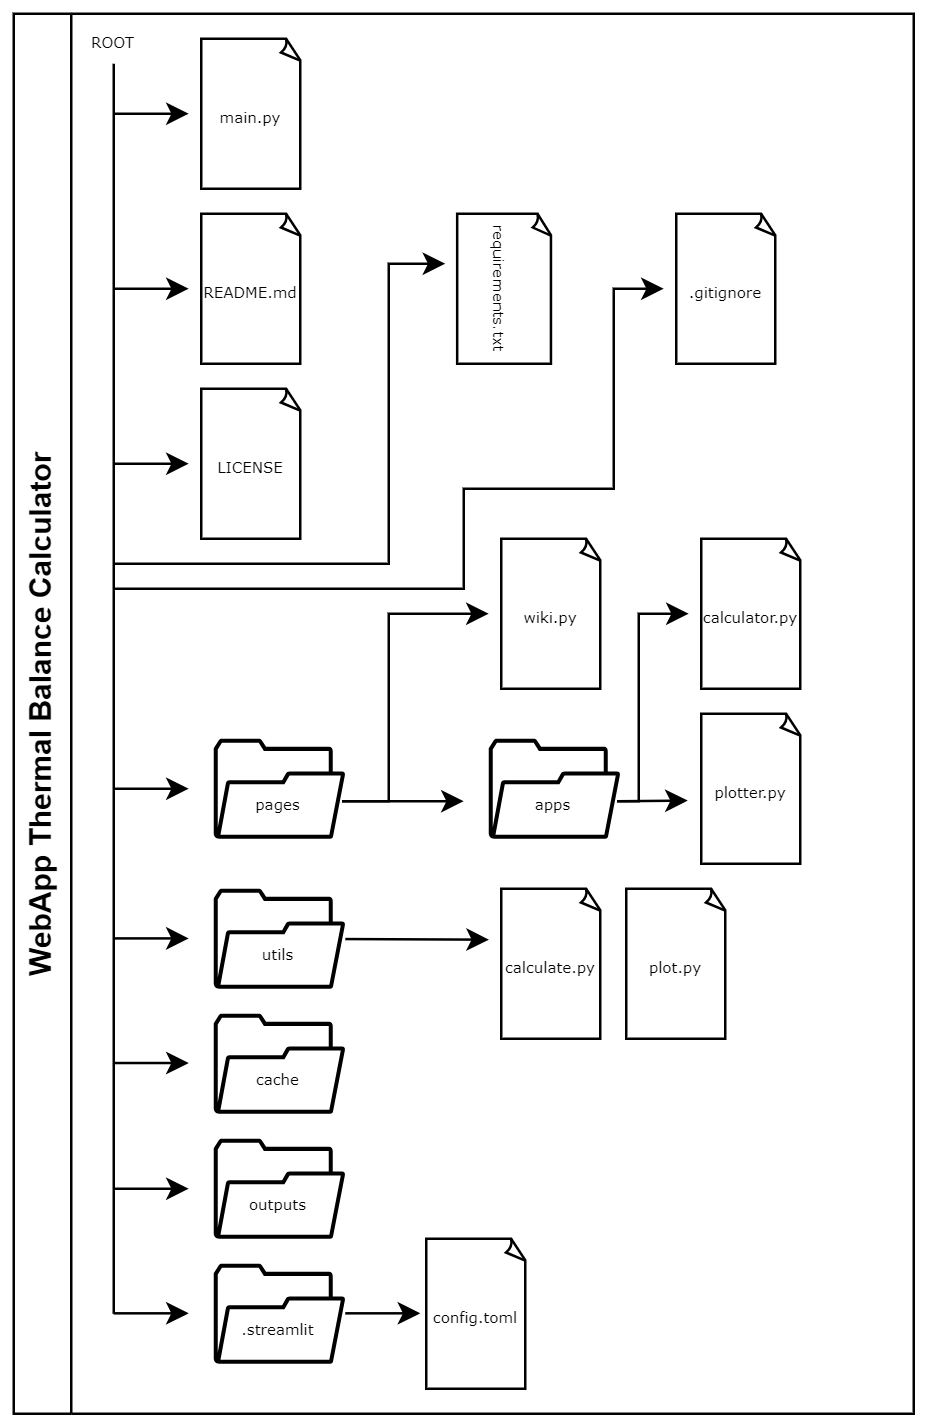
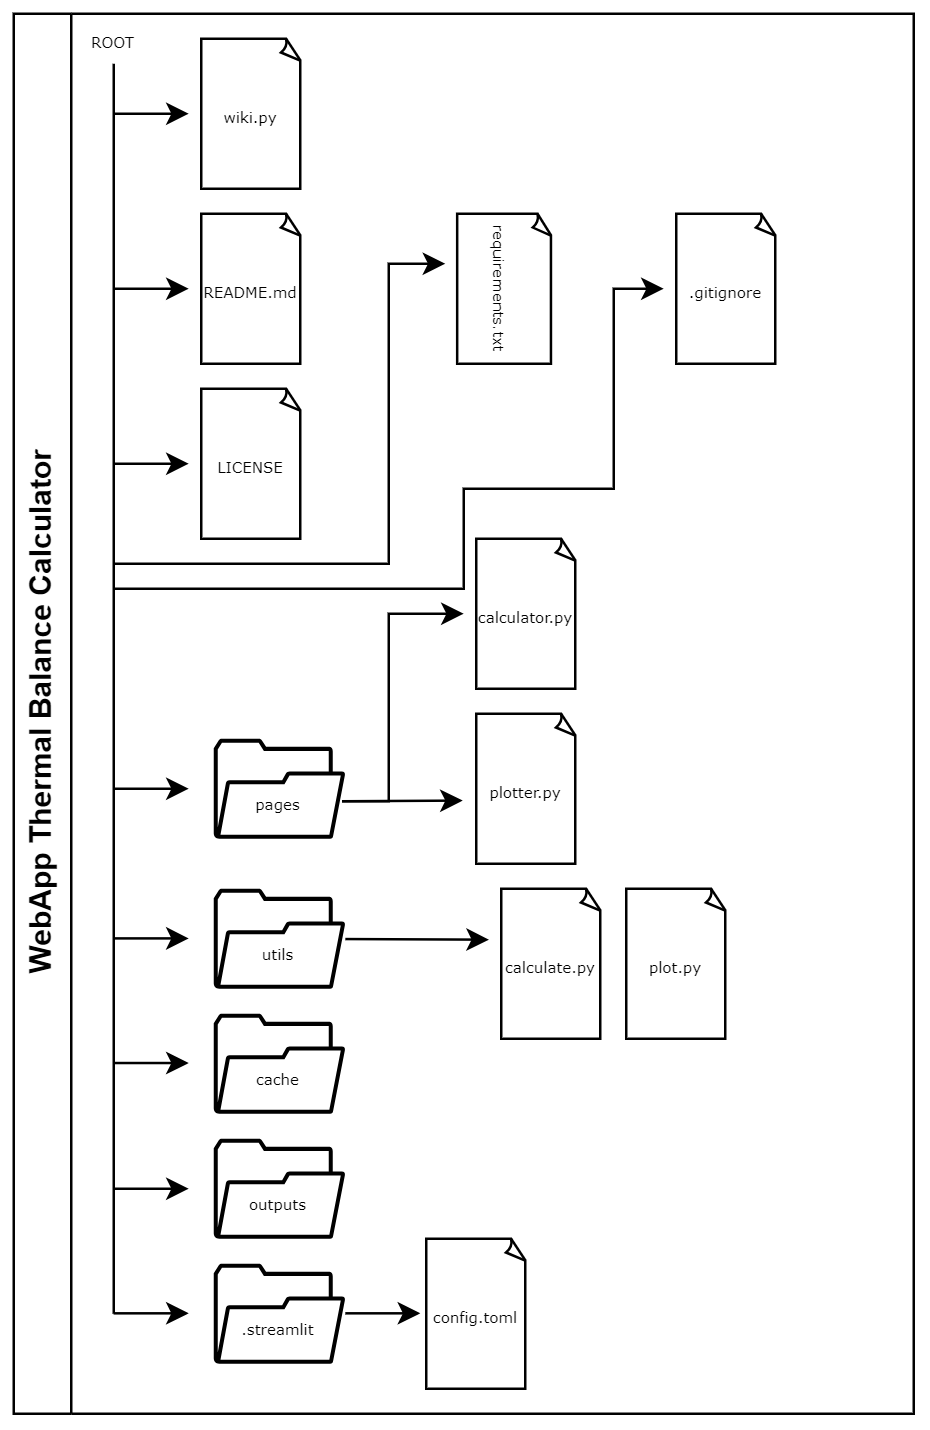
Bases iniciais de quase tudo

diff --git a/wiki.py b/wiki.py
@@ -1,0 +1,55 @@
+import streamlit as st
+import pandas as pd
+import sqlite3
+from glob import glob
+import os
+from st_pages import Page, Section, show_pages, add_page_title
+
+def clear_cache():
+    globed = glob(r"cache/*")
+    for i in globed:
+        os.remove(i)
+    open(r"cache/placeholder.txt", 'w').close()
+
+pages_route = r'pages/'
+assets_route = r'assets/'
+show_pages([
+    Page(f'wiki.py', 'Wiki', '📖'),
+    Section('Apps', icon='💻'),
+    Page(f'{pages_route}calculator.py', 'Calculator', '🧮', in_section=True),
+    Page(f'{pages_route}plotter.py', 'Plotter', '📊', in_section=True)
+])
+st.sidebar.header("**THERMAL BALANCE CALCULATOR**")
+
+
+def wiki_page():
+    add_page_title()
+    st.header("Title")
+    st.markdown("Text text text text text text text text text text text text text text text text text text text text text text text text text text text text text text text text text text text text text text text text text text text text text text text text text text text text text text text text text text text text text text")
+    st.markdown("Text text text text text text text text text text text text text text text text text text")
+    st.header("Title")
+    st.markdown("Text text text text text text text text text text text text text text text text text text text text text text text text text text text text text")
+    st.markdown("Text text text text text text text text text text text text text text text text text text text text text text text text text text text text text text text text text text text text")
+    st.header("Title")
+    st.markdown("Text text text text text text text text text text text text text text text text text text text text text text text text text text text text text text text text text text text text text text text text text text text text text text text text text text text text text text text text text text text text text text")
+    st.markdown("Text text text text text text text text text text text text text text text text text text")
+    st.header("Title")
+    st.markdown("Text text text text text text text text text text text text text text text text text text text text text text text text text text text text text")
+    st.markdown("Text text text text text text text text text text text text text text text text text text text text text text text text text text text text text text text text text text text text")
+    st.header("Title")
+    st.markdown("Text text text text text text text text text text text text text text text text text text text text text text text text text text text text text text text text text text text text text text text text text text text text text text text text text text text text text text text text text text text text text text")
+    st.markdown("Text text text text text text text text text text text text text text text text text text")
+    st.header("Title")
+    st.markdown("Text text text text text text text text text text text text text text text text text text text text text text text text text text text text text")
+    st.markdown("Text text text text text text text text text text text text text text text text text text text text text text text text text text text text text text text text text text text text")
+    st.header("Title")
+    st.markdown("Text text text text text text text text text text text text text text text text text text text text text text text text text text text text text text text text text text text text text text text text text text text text text text text text text text text text text text text text text text text text text text")
+    st.markdown("Text text text text text text text text text text text text text text text text text text")
+    st.header("Title")
+    st.markdown("Text text text text text text text text text text text text text text text text text text text text text text text text text text text text text")
+    st.markdown("Text text text text text text text text text text text text text text text text text text text text text text text text text text text text text text text text text text text text")
+
+
+if __name__ == "__main__":
+    clear_cache()
+    wiki_page()

diff --git a/pages/calculator.py b/pages/calculator.py
@@ -1,0 +1,30 @@
+from wiki import *
+
+st.sidebar.header("**THERMAL BALANCE CALCULATOR**")
+add_page_title()
+
+st.warning("NOTICE: It is essential that the user reads the **manual** or **Wiki** before using this website, as **file formats and naming should be exactly as the manual says**", icon="💡")
+st.title("")
+
+col1, col2 = st.columns(2)
+csv_file = col1.file_uploader("**Upload your CSV**", type="csv", accept_multiple_files=False,key='csv')
+sql_file = col2.file_uploader("**Upload your SQL**", type="sql", accept_multiple_files=False,key='sql')
+st.title("")
+
+if csv_file: # and sql_file
+    col1, col2, col3 = st.columns([1,1,0.4])
+    if col2.button("Calculate"):
+        st.title("")
+        progress_text = "Calculating Heat Exchange Index (deppending on the file size, this might take a while)"
+        progress_bar = st.progress(0, text=progress_text)
+        notify = st.container()
+        try:
+            st.title("")
+            df = pd.read_csv(csv_file)
+            progress_bar.progress(60, text=progress_text)
+            st.dataframe(df)
+            progress_bar.progress(100, text="Finished")
+            notify.success("Successfully calculated the Heat Exchange Index", icon='🎉')
+            progress_bar.empty()
+        except:
+            notify.error("An error occured while processing the CSV", icon='⚠')

diff --git a/pages/plotter.py b/pages/plotter.py
@@ -1,0 +1,6 @@
+from wiki import *
+
+st.sidebar.header("**THERMAL BALANCE CALCULATOR**")
+add_page_title()
+
+st.subheader("Em desenvolvimento...")
